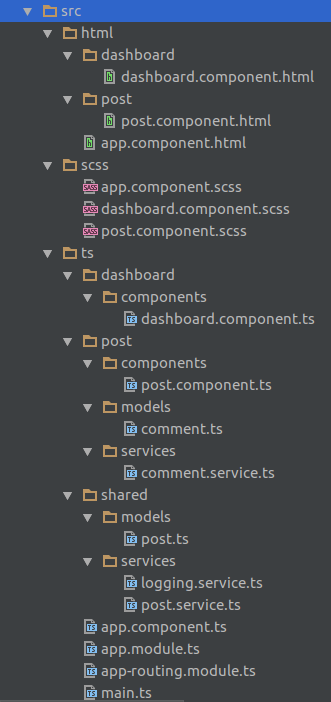
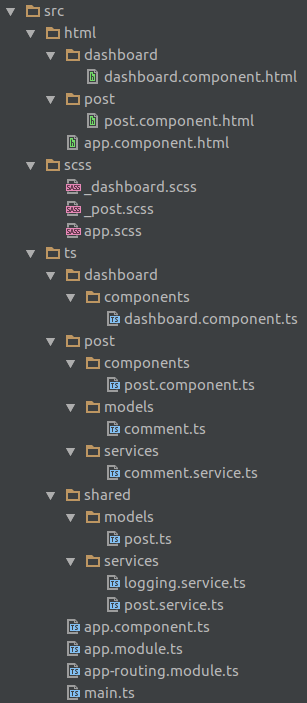
pr comments changes

Changed region(s): [[0.0, 0.0, 1.0, 1.0], [0.7329, 0.0897, 0.9674, 0.1197], [0.0879, 0.3291, 0.1173, 0.3889]]

diff --git a/_posts/2016-11-07-angular2-discussion-portal.md b/_posts/2016-11-07-angular2-discussion-portal.md
@@ -1,17 +1,17 @@
 ---
 layout: post
 title:  "Angular 2 application with refreshing data in real time"
-date:   2016-10-31 08:00:00 +0200
+date:   2016-11-07 08:00:00 +0200
 author: "Tomasz Banaś"
-tags: angular angular2 gulp tslint rxjs
+tags: angular angular2 gulpjs tslint rxjs
 ---
 
-Angular2 was released October this year. On the Internet you can find more and more tutorials which shows how to build a simple application. This tutorial is quite different from them. It shows how to build an Angular 2 application where we're going to focus on architecture which will periodically pull data from backend to keep fresh data on UI.
+Angular 2 was released in October this year. On the Internet you can find more and more tutorials which shows how to build a simple application. This tutorial is quite different from them. It shows how to build an Angular 2 application where we're going to focus on architecture which will periodically pull data from backend to keep fresh data on UI.
 
 __After this tutorial you will know:__
 
-* how to set up angular2 project (using gulp + tslint) and build discussion portal,
-* how to build a proper architecture (using angular2 + rxjs),
+* how to set up Angular 2 project (using GulpJS + TSlint) and build discussion portal,
+* how to build a proper architecture (using Angular 2 + RxJs),
 * how to create components which will periodically pull date from backend,
 
 Let's start with watching a quick demo how this project works.
@@ -25,20 +25,20 @@ What we are going to use while building project:
 
 * lite-server - server which we will use to run the project,
 * json-server - it is needed for simple db with restful api (we'll share data between each app instance so that's why I didn't choose `angular-in-memory-web-api`),
-* gulp - tool to build our application,
-* tslint - checkstyle for typescript. I strongly recommend to use this tool - it will fail a build when some checkstyle rules will be violated.
+* GulpJS - tool to build our application,
+* TSlint - checkstyle for typescript. I strongly recommend to use this tool - it will fail a build when some checkstyle rules will be violated.
 
 The project contains a few configuration files like:
  
 1. `bs-config.json` Configuration file for lite-server. `ghost-mode` flag disabled synchronization of browsers and files. We're going to test our application on two instances so synchronization should be disabled.
 2. `db.json` Our database. This file is used by json-server.
-3. `gulfile.js` Config file for gulp. We have three tasks:
+3. `gulfile.js` Config file for GulpJS. We have three tasks:
     * `watch` - monitoring files changes and rebuilding if necessary,
-    * `tslint, build-ts, build-css` - tasks for running tslint, building typescripts and css files,
+    * `tslint, build-ts, build-css` - tasks for running TSlint, building typescripts and css files,
 4. `package.json` Contains npm dependencies for project.
 5. `systemjs.config.js` Provides information to a module loader about where to find application modules, and registers all the necessary packages.
-6. `tsconfig.json`Defines how the TypeScript compiler generates JavaScript from the project's files.
-7. `tslint.json` Contains checkstyle rules for tslint.
+6. `tsconfig.json` Defines how the TypeScript compiler generates JavaScript from the project's files.
+7. `tslint.json` Contains checkstyle rules for TSlint.
 8. `typings\globals\es6-shim\index.d.ts` Typings needed by typescript.
 
 # 2. Architecture
@@ -48,10 +48,10 @@ The project contains a few configuration files like:
 As you can see on image we have two components:
 
 #### [_DashboardComponent_](https://github.com/BeyondScheme/angular2-discussion-portal/blob/master/src/ts/dashboard/components/dashboard.component.ts)
-This component is responsible for displaying existing posts and an input for creating new one. Data for this component are provided by [_PostService_](https://github.com/BeyondScheme/angular2-discussion-portal/blob/master/src/ts/shared/services/post.service.ts).
+This component is responsible for displaying existing posts and an input for creating new one. Data for this component is provided by [_PostService_](https://github.com/BeyondScheme/angular2-discussion-portal/blob/master/src/ts/shared/services/post.service.ts).
 
 #### [_PostComponent_](https://github.com/BeyondScheme/angular2-discussion-portal/blob/master/src/ts/post/components/post.component.ts)
-Displaying comments created under a particular post. Data for this component are provided by two services: [_PostService_](https://github.com/BeyondScheme/angular2-discussion-portal/blob/master/src/ts/shared/services/post.service.ts) and [_CommentService_](https://github.com/BeyondScheme/angular2-discussion-portal/blob/master/src/ts/post/services/comment.service.ts).
+Displaying comments created under a particular post. Data for this component is provided by two services: [_PostService_](https://github.com/BeyondScheme/angular2-discussion-portal/blob/master/src/ts/shared/services/post.service.ts) and [_CommentService_](https://github.com/BeyondScheme/angular2-discussion-portal/blob/master/src/ts/post/services/comment.service.ts).
 [_PostService_](https://github.com/BeyondScheme/angular2-discussion-portal/blob/master/src/ts/shared/services/post.service.ts) load post information based on the post id which is url parameter:
 
 {% highlight typescript %}
@@ -69,7 +69,7 @@ this.route.params.forEach((params: Params) => {
 {% endhighlight %}
 
 ### Pulling data periodically
-After loading post we run function `refreshData()` which is worth wider discussion.
+After loading post we run function `refreshData()` which is worth wider description.
 {% highlight typescript %}
 private refreshData(): void {
     this.commentsSubscription = this.commentService.getComments(this.post.id).subscribe(comments => {
@@ -86,7 +86,7 @@ private subscribeToData(): void {
 This function is responsible for refreshing comments in real time. When someone add a new comment everyone who is reading this post will see it without need for refreshing page.
 
 Firstly, we invoke `commentService.getComments(id: number)` to retrieve comments from the backend. On each success call we run `subscribeToData()` which after 5s invoke once again `refreshData()`.
-It ensures that data on UI are constantly refresh.
+It ensures that data on UI is constantly refresh.
 
 You may wonder why we invoke `subscribeToData()` after successful call instead of adding in `ngOnInit()` method:
 {% highlight typescript %}
@@ -125,14 +125,14 @@ public ngOnDestroy(): void {
 {% endhighlight %}
 
 ### 3. Directories structure
-While writing first application in angular2 I was wondering what is the best practise for files structure in the repository. During working with angular2 I worked out structure which is simple and easy to maintain while adding new functionalities.
+While writing first application in Angular 2 I was wondering what is the best practise for files structure in the repository. During working with Angular 2 I worked out structure which is simple and easy to maintain while adding new functionalities.
 
 <img src="/images/blog/posts/angular2-discussion-portal/packages_structure.png"/>
 
 I have three main directories: 
 
 * html - to keep all html files, divided by pages and components. When the new component on dashboard is created new file is added to `html\dashboard`.
-* scss - all scss files. Lack of division by components, because basically each page has one scss file.
+* scss - all scss files. Divided only by pages. Main file [_app.scss_](https://github.com/BeyondScheme/angular2-discussion-portal/blob/master/src/scss/app.scss) imports all others scss files.
 * ts - typescripts files, divided by pages and type of classes (components/services/models). I also have `shared` directory which contains all code shared between different pages.
 
 
